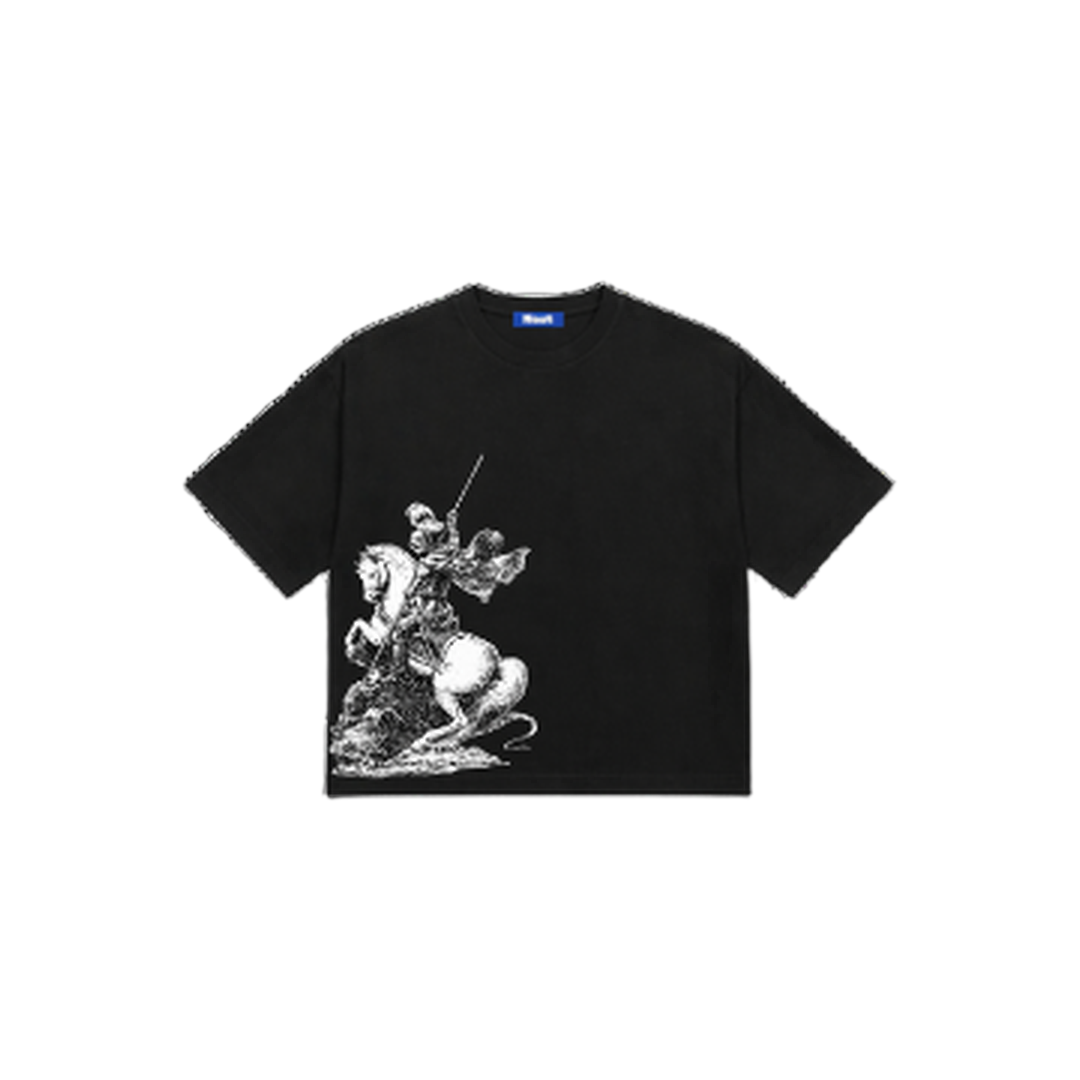
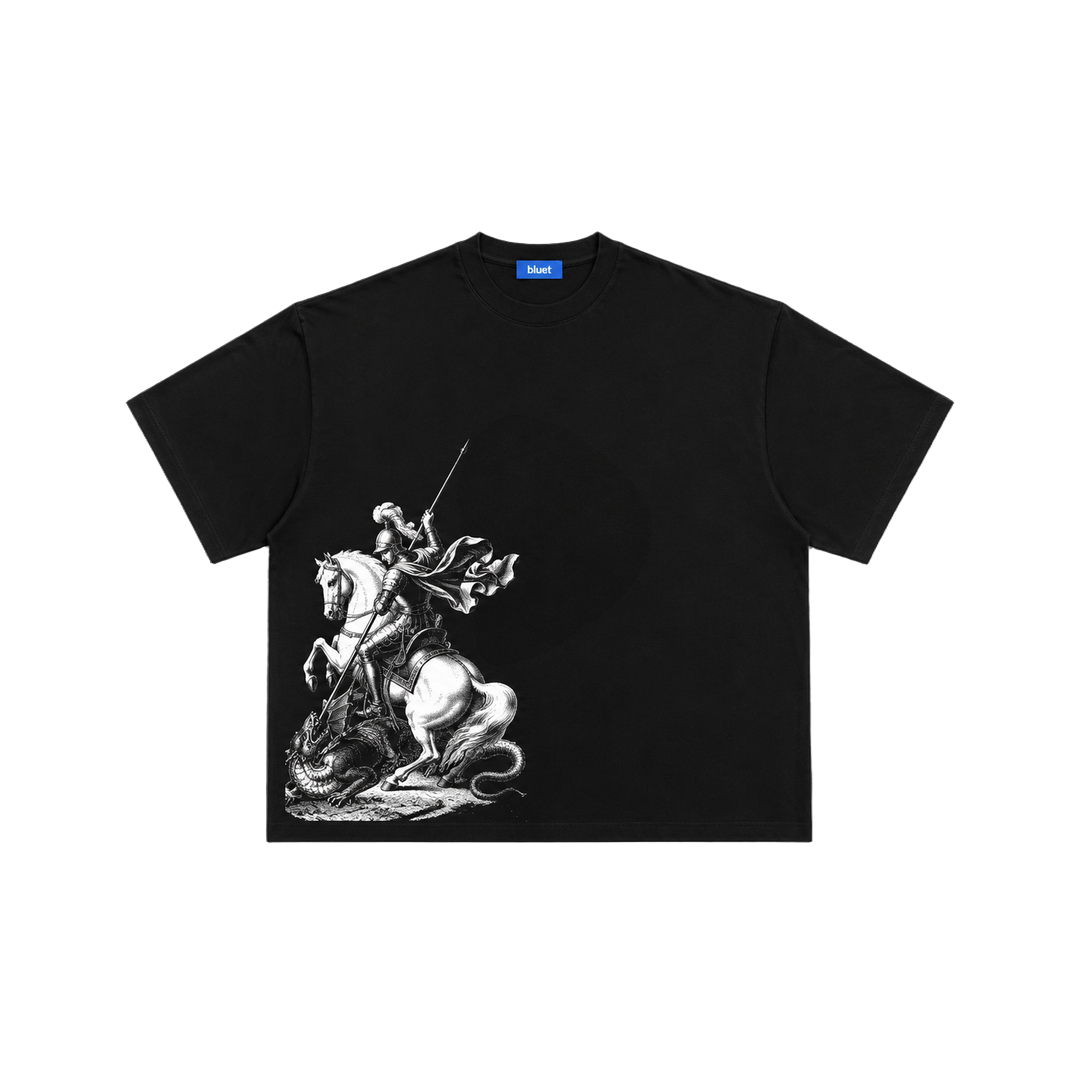
feat: novas fotos recortadas (baby look, boxy, slim, jorge) + adicionar slim fit ao catálogo

Changed region(s): [[0.1222, 0.2139, 0.8861, 0.7944], [0.4278, 0.4278, 0.4583, 0.4583]]

diff --git a/frontend/src/data/fallback.ts b/frontend/src/data/fallback.ts
@@ -36,6 +36,40 @@ export const FALLBACK_PRODUCTS: Product[] = [
     stockBySize: { P: 6, M: 6, G: 6, "Baby Look": 6 },
   },
   {
+    id: "p-slim-black",
+    name: "CAMISETA NAST SLIM PRETA",
+    description:
+      "Camiseta slim fit preta em algodão 30.1 penteado com print poético frontal em branco. Corte regular, caimento ajustado e etiqueta tecida NAST.",
+    priceCents: 8990,
+    pixPriceCents: 8541,
+    category: "Camisetas",
+    image: "slim-black.png",
+    backImage: "slim-black.png",
+    transparentImage: false,
+    colors: ["preto"],
+    sizes: ["P", "M", "G", "Baby Look"],
+    tags: ["edição limitada"],
+    stock: 20,
+    stockBySize: { P: 5, M: 7, G: 5, "Baby Look": 3 },
+  },
+  {
+    id: "p-slim-white",
+    name: "CAMISETA NAST SLIM BRANCA",
+    description:
+      "Camiseta slim fit branca em algodão 30.1 penteado com print poético frontal em preto. Corte regular, caimento ajustado e etiqueta tecida NAST.",
+    priceCents: 8990,
+    pixPriceCents: 8541,
+    category: "Camisetas",
+    image: "slim-white.png",
+    backImage: "slim-white.png",
+    transparentImage: true,
+    colors: ["branco"],
+    sizes: ["P", "M", "G", "Baby Look"],
+    tags: ["edição limitada"],
+    stock: 20,
+    stockBySize: { P: 5, M: 7, G: 5, "Baby Look": 3 },
+  },
+  {
     id: "p-boxy-black",
     name: "CAMISA BOXY NAST PRETA",
     description:
@@ -43,8 +77,9 @@ export const FALLBACK_PRODUCTS: Product[] = [
     priceCents: 9990,
     pixPriceCents: 9491,
     category: "Boxy",
-    image: "boxy-black.jpeg",
-    backImage: "boxy-black-back.jpeg",
+    image: "boxy-black.png",
+    backImage: "boxy-black.png",
+    transparentImage: false,
     colors: ["preto"],
     sizes: ["P", "M", "G"],
     tags: ["boxy fit"],
@@ -59,8 +94,9 @@ export const FALLBACK_PRODUCTS: Product[] = [
     priceCents: 9990,
     pixPriceCents: 9491,
     category: "Boxy",
-    image: "boxy-white.jpeg",
-    backImage: "boxy-white-back.jpeg",
+    image: "boxy-white.png",
+    backImage: "boxy-white.png",
+    transparentImage: true,
     colors: ["branco"],
     sizes: ["P", "M", "G"],
     tags: ["boxy fit"],
@@ -75,8 +111,9 @@ export const FALLBACK_PRODUCTS: Product[] = [
     priceCents: 7990,
     pixPriceCents: 7591,
     category: "Baby Look",
-    image: "bb-look-black.jpeg",
-    backImage: "bb-look-black-back.jpeg",
+    image: "bb-look-black.png",
+    backImage: "bb-look-black.png",
+    transparentImage: false,
     colors: ["preto"],
     sizes: ["Baby Look"],
     tags: ["edição limitada"],
@@ -93,7 +130,7 @@ export const FALLBACK_PRODUCTS: Product[] = [
     category: "Boxy",
     image: "tee-jorge.png",
     backImage: "tee-jorge.png",
-    transparentImage: true,
+    transparentImage: false,
     colors: ["preto"],
     sizes: ["P", "M", "G"],
     tags: ["boxy fit", "edição limitada"],
@@ -108,8 +145,9 @@ export const FALLBACK_PRODUCTS: Product[] = [
     priceCents: 7990,
     pixPriceCents: 7591,
     category: "Baby Look",
-    image: "bb-look-white.jpeg",
-    backImage: "bb-look-white-back.jpeg",
+    image: "bb-look-white.png",
+    backImage: "bb-look-white.png",
+    transparentImage: true,
     colors: ["branco"],
     sizes: ["Baby Look"],
     tags: ["edição limitada"],

diff --git a/backend/main.go b/backend/main.go
@@ -115,11 +115,13 @@ type CheckoutResponse struct {
 var catalog = []Product{
         {ID: "p-tee-bw-black", Name: "CAMISETA BLACK & WHITE", Description: "Camiseta preta em algodão 30.1 penteado com print cursivo frontal em branco. Corte regular, gola reforçada.", PriceCents: 8990, PixPriceCents: 8541, Category: "Camisetas", Image: "tee-cursive-black.jpeg", BackImage: "tee-cursive-black-back.jpeg", Colors: []string{"preto"}, Sizes: []string{"P", "M", "G", "Baby Look"}, Tags: []string{"edição limitada"}, Stock: 24, StockBySize: map[string]int{"P": 6, "M": 6, "G": 6, "Baby Look": 6}},
         {ID: "p-tee-bw-white", Name: "CAMISA BLACK & WHITE", Description: "Camiseta branca em algodão 30.1 penteado com print cursivo frontal em preto. Corte regular, gola reforçada.", PriceCents: 8990, PixPriceCents: 8541, Category: "Camisetas", Image: "tee-cursive-white.jpeg", BackImage: "tee-cursive-white-back.jpeg", Colors: []string{"branco"}, Sizes: []string{"P", "M", "G", "Baby Look"}, Tags: []string{"edição limitada"}, Stock: 24, StockBySize: map[string]int{"P": 6, "M": 6, "G": 6, "Baby Look": 6}},
-        {ID: "p-boxy-black", Name: "CAMISA BOXY NAST PRETA", Description: "Camiseta boxy preta em algodão pesado 240g com modelagem oversized, ombro caído e etiqueta tecida NAST.", PriceCents: 9990, PixPriceCents: 9491, Category: "Boxy", Image: "boxy-black.jpeg", BackImage: "boxy-black-back.jpeg", Colors: []string{"preto"}, Sizes: []string{"P", "M", "G"}, Tags: []string{"boxy fit"}, Stock: 18, StockBySize: map[string]int{"P": 6, "M": 6, "G": 6}},
-        {ID: "p-boxy-white", Name: "CAMISETA BOXY NAST BRANCA", Description: "Camiseta boxy branca em algodão pesado 240g com modelagem oversized, ombro caído e etiqueta tecida NAST.", PriceCents: 9990, PixPriceCents: 9491, Category: "Boxy", Image: "boxy-white.jpeg", BackImage: "boxy-white-back.jpeg", Colors: []string{"branco"}, Sizes: []string{"P", "M", "G"}, Tags: []string{"boxy fit"}, Stock: 18, StockBySize: map[string]int{"P": 6, "M": 6, "G": 6}},
-        {ID: "p-jorge-black", Name: "CAMISA NAST JORGE", Description: "Camiseta boxy preta com arte exclusiva de São Jorge. Algodão pesado 240g, modelagem oversized e etiqueta tecida NAST.", PriceCents: 9990, PixPriceCents: 9491, Category: "Boxy", Image: "tee-jorge.png", BackImage: "tee-jorge.png", TransparentImage: true, Colors: []string{"preto"}, Sizes: []string{"P", "M", "G"}, Tags: []string{"boxy fit", "edição limitada"}, Stock: 10, StockBySize: map[string]int{"P": 4, "M": 4, "G": 2}},
-        {ID: "p-bb-look-black", Name: "BABY LOOK NAST TEE", Description: "Baby look preta em algodão 30.1 penteado com print cursivo \"Just be You\" frontal em branco. Corte ajustado feminino, gola reforçada e etiqueta tecida NAST.", PriceCents: 7990, PixPriceCents: 7591, Category: "Baby Look", Image: "bb-look-black.jpeg", BackImage: "bb-look-black-back.jpeg", Colors: []string{"preto"}, Sizes: []string{"Baby Look"}, Tags: []string{"edição limitada"}, Stock: 12, StockBySize: map[string]int{"Baby Look": 12}},
-        {ID: "p-bb-look-white", Name: "BABY LOOK NAST TEE", Description: "Baby look branca em algodão 30.1 penteado com print cursivo \"Just be You\" frontal em preto. Corte ajustado feminino, gola reforçada e etiqueta tecida NAST.", PriceCents: 7990, PixPriceCents: 7591, Category: "Baby Look", Image: "bb-look-white.jpeg", BackImage: "bb-look-white-back.jpeg", Colors: []string{"branco"}, Sizes: []string{"Baby Look"}, Tags: []string{"edição limitada"}, Stock: 12, StockBySize: map[string]int{"Baby Look": 12}},
+        {ID: "p-slim-black", Name: "CAMISETA NAST SLIM PRETA", Description: "Camiseta slim fit preta em algodão 30.1 penteado com print poético frontal em branco. Corte regular, caimento ajustado e etiqueta tecida NAST.", PriceCents: 8990, PixPriceCents: 8541, Category: "Camisetas", Image: "slim-black.png", BackImage: "slim-black.png", TransparentImage: false, Colors: []string{"preto"}, Sizes: []string{"P", "M", "G", "Baby Look"}, Tags: []string{"edição limitada"}, Stock: 20, StockBySize: map[string]int{"P": 5, "M": 7, "G": 5, "Baby Look": 3}},
+        {ID: "p-slim-white", Name: "CAMISETA NAST SLIM BRANCA", Description: "Camiseta slim fit branca em algodão 30.1 penteado com print poético frontal em preto. Corte regular, caimento ajustado e etiqueta tecida NAST.", PriceCents: 8990, PixPriceCents: 8541, Category: "Camisetas", Image: "slim-white.png", BackImage: "slim-white.png", TransparentImage: true, Colors: []string{"branco"}, Sizes: []string{"P", "M", "G", "Baby Look"}, Tags: []string{"edição limitada"}, Stock: 20, StockBySize: map[string]int{"P": 5, "M": 7, "G": 5, "Baby Look": 3}},
+        {ID: "p-boxy-black", Name: "CAMISA BOXY NAST PRETA", Description: "Camiseta boxy preta em algodão pesado 240g com modelagem oversized, ombro caído e etiqueta tecida NAST.", PriceCents: 9990, PixPriceCents: 9491, Category: "Boxy", Image: "boxy-black.png", BackImage: "boxy-black.png", TransparentImage: false, Colors: []string{"preto"}, Sizes: []string{"P", "M", "G"}, Tags: []string{"boxy fit"}, Stock: 18, StockBySize: map[string]int{"P": 6, "M": 6, "G": 6}},
+        {ID: "p-boxy-white", Name: "CAMISETA BOXY NAST BRANCA", Description: "Camiseta boxy branca em algodão pesado 240g com modelagem oversized, ombro caído e etiqueta tecida NAST.", PriceCents: 9990, PixPriceCents: 9491, Category: "Boxy", Image: "boxy-white.png", BackImage: "boxy-white.png", TransparentImage: true, Colors: []string{"branco"}, Sizes: []string{"P", "M", "G"}, Tags: []string{"boxy fit"}, Stock: 18, StockBySize: map[string]int{"P": 6, "M": 6, "G": 6}},
+        {ID: "p-jorge-black", Name: "CAMISA NAST JORGE", Description: "Camiseta boxy preta com arte exclusiva de São Jorge. Algodão pesado 240g, modelagem oversized e etiqueta tecida NAST.", PriceCents: 9990, PixPriceCents: 9491, Category: "Boxy", Image: "tee-jorge.png", BackImage: "tee-jorge.png", TransparentImage: false, Colors: []string{"preto"}, Sizes: []string{"P", "M", "G"}, Tags: []string{"boxy fit", "edição limitada"}, Stock: 10, StockBySize: map[string]int{"P": 4, "M": 4, "G": 2}},
+        {ID: "p-bb-look-black", Name: "BABY LOOK NAST TEE", Description: "Baby look preta em algodão 30.1 penteado com print cursivo \"Just be You\" frontal em branco. Corte ajustado feminino, gola reforçada e etiqueta tecida NAST.", PriceCents: 7990, PixPriceCents: 7591, Category: "Baby Look", Image: "bb-look-black.png", BackImage: "bb-look-black.png", TransparentImage: false, Colors: []string{"preto"}, Sizes: []string{"Baby Look"}, Tags: []string{"edição limitada"}, Stock: 12, StockBySize: map[string]int{"Baby Look": 12}},
+        {ID: "p-bb-look-white", Name: "BABY LOOK NAST TEE", Description: "Baby look branca em algodão 30.1 penteado com print cursivo \"Just be You\" frontal em preto. Corte ajustado feminino, gola reforçada e etiqueta tecida NAST.", PriceCents: 7990, PixPriceCents: 7591, Category: "Baby Look", Image: "bb-look-white.png", BackImage: "bb-look-white.png", TransparentImage: true, Colors: []string{"branco"}, Sizes: []string{"Baby Look"}, Tags: []string{"edição limitada"}, Stock: 12, StockBySize: map[string]int{"Baby Look": 12}},
         {ID: "p-secret-red", Name: "NST VERMELHA", Description: "Peça exclusiva em vermelho. Produção limitadíssima, reservada para quem sabe onde procurar.", PriceCents: 12990, PixPriceCents: 12341, Category: "Secreto", Image: "tee-red.jpg", BackImage: "tee-red.jpg", Colors: []string{"vermelho"}, Sizes: []string{"P", "M", "G"}, Tags: []string{"secreto", "exclusivo"}, Stock: 5, StockBySize: map[string]int{"P": 2, "M": 2, "G": 1}},
 }
 

diff --git a/backend/shipping.go b/backend/shipping.go
@@ -440,6 +440,8 @@ var packagingPresets = map[string]ShippingPackage{
 	"p-bb-look-white": {Width: 25, Height: 3, Length: 30, Weight: 0.18, InsuranceValue: 79.90},
 "p-secret-red":    {Width: 28, Height: 4, Length: 32, Weight: 0.28, InsuranceValue: 129.90},
 "p-jorge-black":   {Width: 28, Height: 4, Length: 32, Weight: 0.28, InsuranceValue: 99.90},
+"p-slim-black":    {Width: 25, Height: 3, Length: 30, Weight: 0.22, InsuranceValue: 89.90},
+"p-slim-white":    {Width: 25, Height: 3, Length: 30, Weight: 0.22, InsuranceValue: 89.90},
 }
 
 func packagingFor(productID string) ShippingPackage {
